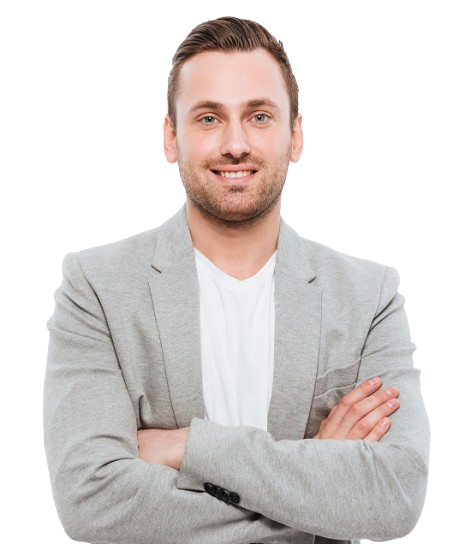
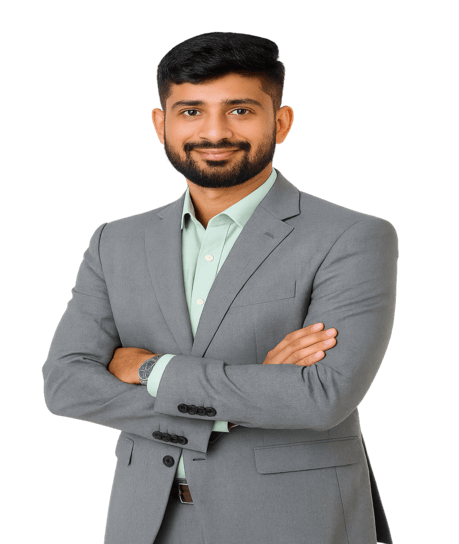
update content

diff --git a/src/components/profile/Profile.jsx b/src/components/profile/Profile.jsx
@@ -33,20 +33,20 @@ const Profile = () => {
           <h2
             className={`text-2xl xxs:text-3xl sm:text-4xl lg:text-[38px] text-[min(24px,38px)] max-md:text-center font-semibold mb-8`}
           >
-            I am Professional User Experience Designer
+            Full-Stack Developer | React, Node.js, MongoDB, PostgreSQL
           </h2>
           <div
             className={`text-xs xs:text-[16px] lg:text-lg font-normal max-md:text-center text-gray-600`}
           >
             <p className={``}>
-              I design and develop services for customers specializing creating
-              stylish, modern websites, web services and online stores. My
-              passion is to design digital user experiences.
+              I help brands and businesses build powerful digital products.
+              Whether it’s a responsive website, a custom web app, or API integrations, I deliver clean code and exceptional user experiences.
+              I’m passionate about building products that are fast, intuitive, and scalable.
             </p>
-            <p className="mt-3">
+            {/* <p className="mt-3">
               I design and develop services for customers specializing creating
               stylish, modern websites, web services.
-            </p>
+            </p> */}
           </div>
           <div className="mt-8 flex max-md:justify-center">
             <a
@@ -59,7 +59,16 @@ const Profile = () => {
               className={`btn xxs:btn-lg px-6 max-xs:px-2 xxs:py-3 hover:border-picto-primary bg-white duration-300 transition-all hover:text-picto-primary  ms-4 text-xs xxs:text-[14px] sm:text-[16px]`}
               href="#!"
             >
-              <FontAwesomeIcon icon={faDownload} /> Download CV
+              {/* <FontAwesomeIcon icon={faDownload} /> Download CV */}
+              <a
+                href="/portfolio/Jignesh_5_YOE.pdf"
+                target="_blank"
+                rel="noopener noreferrer"
+                className="flex items-center gap-2"
+              >
+                <FontAwesomeIcon icon={faDownload} />
+                Download CV
+              </a>
             </a>
           </div>
         </div>

diff --git a/src/components/introduction/Introduction.jsx b/src/components/introduction/Introduction.jsx
@@ -7,17 +7,17 @@ const informationSummaryData = [
   {
     id: 1,
     title: "Experience",
-    description: "15 Y.",
+    description: "5 Y.",
   },
   {
     id: 2,
     title: "Projects Completed",
-    description: "250+",
+    description: "100+",
   },
   {
     id: 3,
     title: "Happy Clients",
-    description: "58",
+    description: "25",
   },
 ];
 
@@ -32,14 +32,12 @@ const Introduction = () => {
           <p className="text-3xl xxs:text-4xl sm:max-xl:text-5xl xl:text-6xl font-semibold w-full">
             Hello, I’m
             <span className="text-nowrap shrink-0 inline-block w-full">
-              Brooklyn Gilbert
+              Jignesh Patel
             </span>
           </p>
           <p className="text-xs xxs:text-lg lg:text-[18px] my-6">
-            I'm a Freelance <span className="bg-highlight">UI/UX Designer</span>{" "}
-            and <span className="bg-highlight"> Developer</span> based in
-            London, England. I strives to build immersive and beautiful web
-            applications through carefully crafted code and user-centric design.
+            I’m a Full-Stack Developer who builds beautiful and functional web applications. 
+            I enjoy writing clean code, crafting intuitive interfaces, and bringing ideas to life for clients and businesses.
           </p>
           <p className="text-center lg:text-start">
             <a

diff --git a/src/components/common/socialMedia/SocialMedia.jsx b/src/components/common/socialMedia/SocialMedia.jsx
@@ -4,21 +4,28 @@ import {
   faFacebookF,
   faInstagram,
   faLinkedin,
+  faGithub,
+  faStackOverflow,
+  faUpwork
 } from "@fortawesome/free-brands-svg-icons";
 import { FontAwesomeIcon } from "@fortawesome/react-fontawesome";
 
 const socialIcons = [
-  { icon: faFacebookF, link: "#!" },
-  { icon: faDribbble, link: "#!" },
-  { icon: faInstagram, link: "#!" },
-  { icon: faLinkedin, link: "#!" },
-  { icon: faBehance, link: "#!" },
+  // { icon: faDribbble, link: "#!" },
+  { icon: faLinkedin, link: "https://www.linkedin.com/in/jignesh-patel-007/" },
+  { icon: faGithub, link: "https://github.com/jignesh1993" },
+  { icon: faStackOverflow, link: "https://stackoverflow.com/users/13397319/jignesh-patel" },
+  { icon: faUpwork, link: "https://www.upwork.com/freelancers/~0121fcedc9cefe1af7" },
+  { icon: faInstagram, link: "https://www.instagram.com/jignesh_mahesh_patel_25?igsh=MTZjc2xlMHUxZ2U3aQ==" }
+  // { icon: faBehance, link: "#!" }
 ];
 
 const SocialMedia = () => {
   return socialIcons.map((item, index) => (
     <a
       href={item.link}
+      target="_blank"
+      rel="noopener noreferrer"
       className={`text-picto-primary hover:bg-picto-primary p-2 pt-3 xs:p-2.5 xs:pt-3.75 sm:pt-4 md:pt-5 sm:p-3 md:p-3.75 hover:text-white rounded-md`}
       key={index}
     >

diff --git a/src/components/common/footer/Footer.jsx b/src/components/common/footer/Footer.jsx
@@ -19,7 +19,7 @@ const Footer = () => {
         <a href="#" className="flex items-center border-0">
           <img src={logo} className="h-8 sm:h-14 rounded-2xl" alt="logo" />
           <p className="text-3xl sm:text-[32px] my-auto ms-[12px] font-semibold">
-            Brooklyn
+            Jignesh Patel
           </p>
         </a>
         <div className="mx-7 max-md:my-7 text-center">
@@ -35,18 +35,19 @@ const Footer = () => {
           ))}
         </div>
         <p className="text-[12px] sm:text-[16px]">
-          Copyright &copy; {copyrightYear} Picto.
+          Copyright &copy; {copyrightYear}.
         </p>
       </div>
       <p className="text-white text-center max-xs:text-[12px] max-md:text-[14px] w-full py-10">
-        Developed with ❤ by{" "}
-        <a
+        Developed with ❤ 
+        {/* by{" "} */}
+        {/* <a
           href="https://www.themewagon.com"
           className="underline font-bold"
           target="_blank"
         >
-          ThemeWagon
-        </a>
+          Jignesh
+        </a> */}
       </p>
     </div>
   );

diff --git a/src/components/contact/Contact.jsx b/src/components/contact/Contact.jsx
@@ -11,17 +11,17 @@ const addressData = [
   {
     icon: faLocationDot,
     title: "Address",
-    description: "New Mexico, 31134",
+    description: "Navsari, Gujarat, India 396445",
   },
   {
     icon: faEnvelope,
     title: "My Email",
-    description: "mymail@mail.com",
+    description: "jignesh.mahesh07@gmail.com",
   },
   {
     icon: faPhone,
     title: "Call Me Now",
-    description: "00-123 00000",
+    description: "+91 9099377527",
   },
 ];
 

diff --git a/src/components/common/navbar/NavBar.jsx b/src/components/common/navbar/NavBar.jsx
@@ -94,7 +94,7 @@ const NavBar = () => {
           >
             <img src={logo} className="h-8 sm:h-14 rounded-2xl" alt="logo" />
             <p className="text-2xl sm:text-[32px] my-auto ms-[12px] font-semibold">
-              Brooklyn
+              Jignesh Patel
             </p>
           </Link>
         </div>

diff --git a/index.html b/index.html
@@ -12,7 +12,7 @@
         @import url('https://fonts.googleapis.com/css2?family=Work+Sans:ital,wght@0,100..900;1,100..900&display=swap');
     </style>
 
-    <title>Picto - Personal portfolio</title>
+    <title>Jignesh Patel</title>
 </head>
 
 <body class="">
